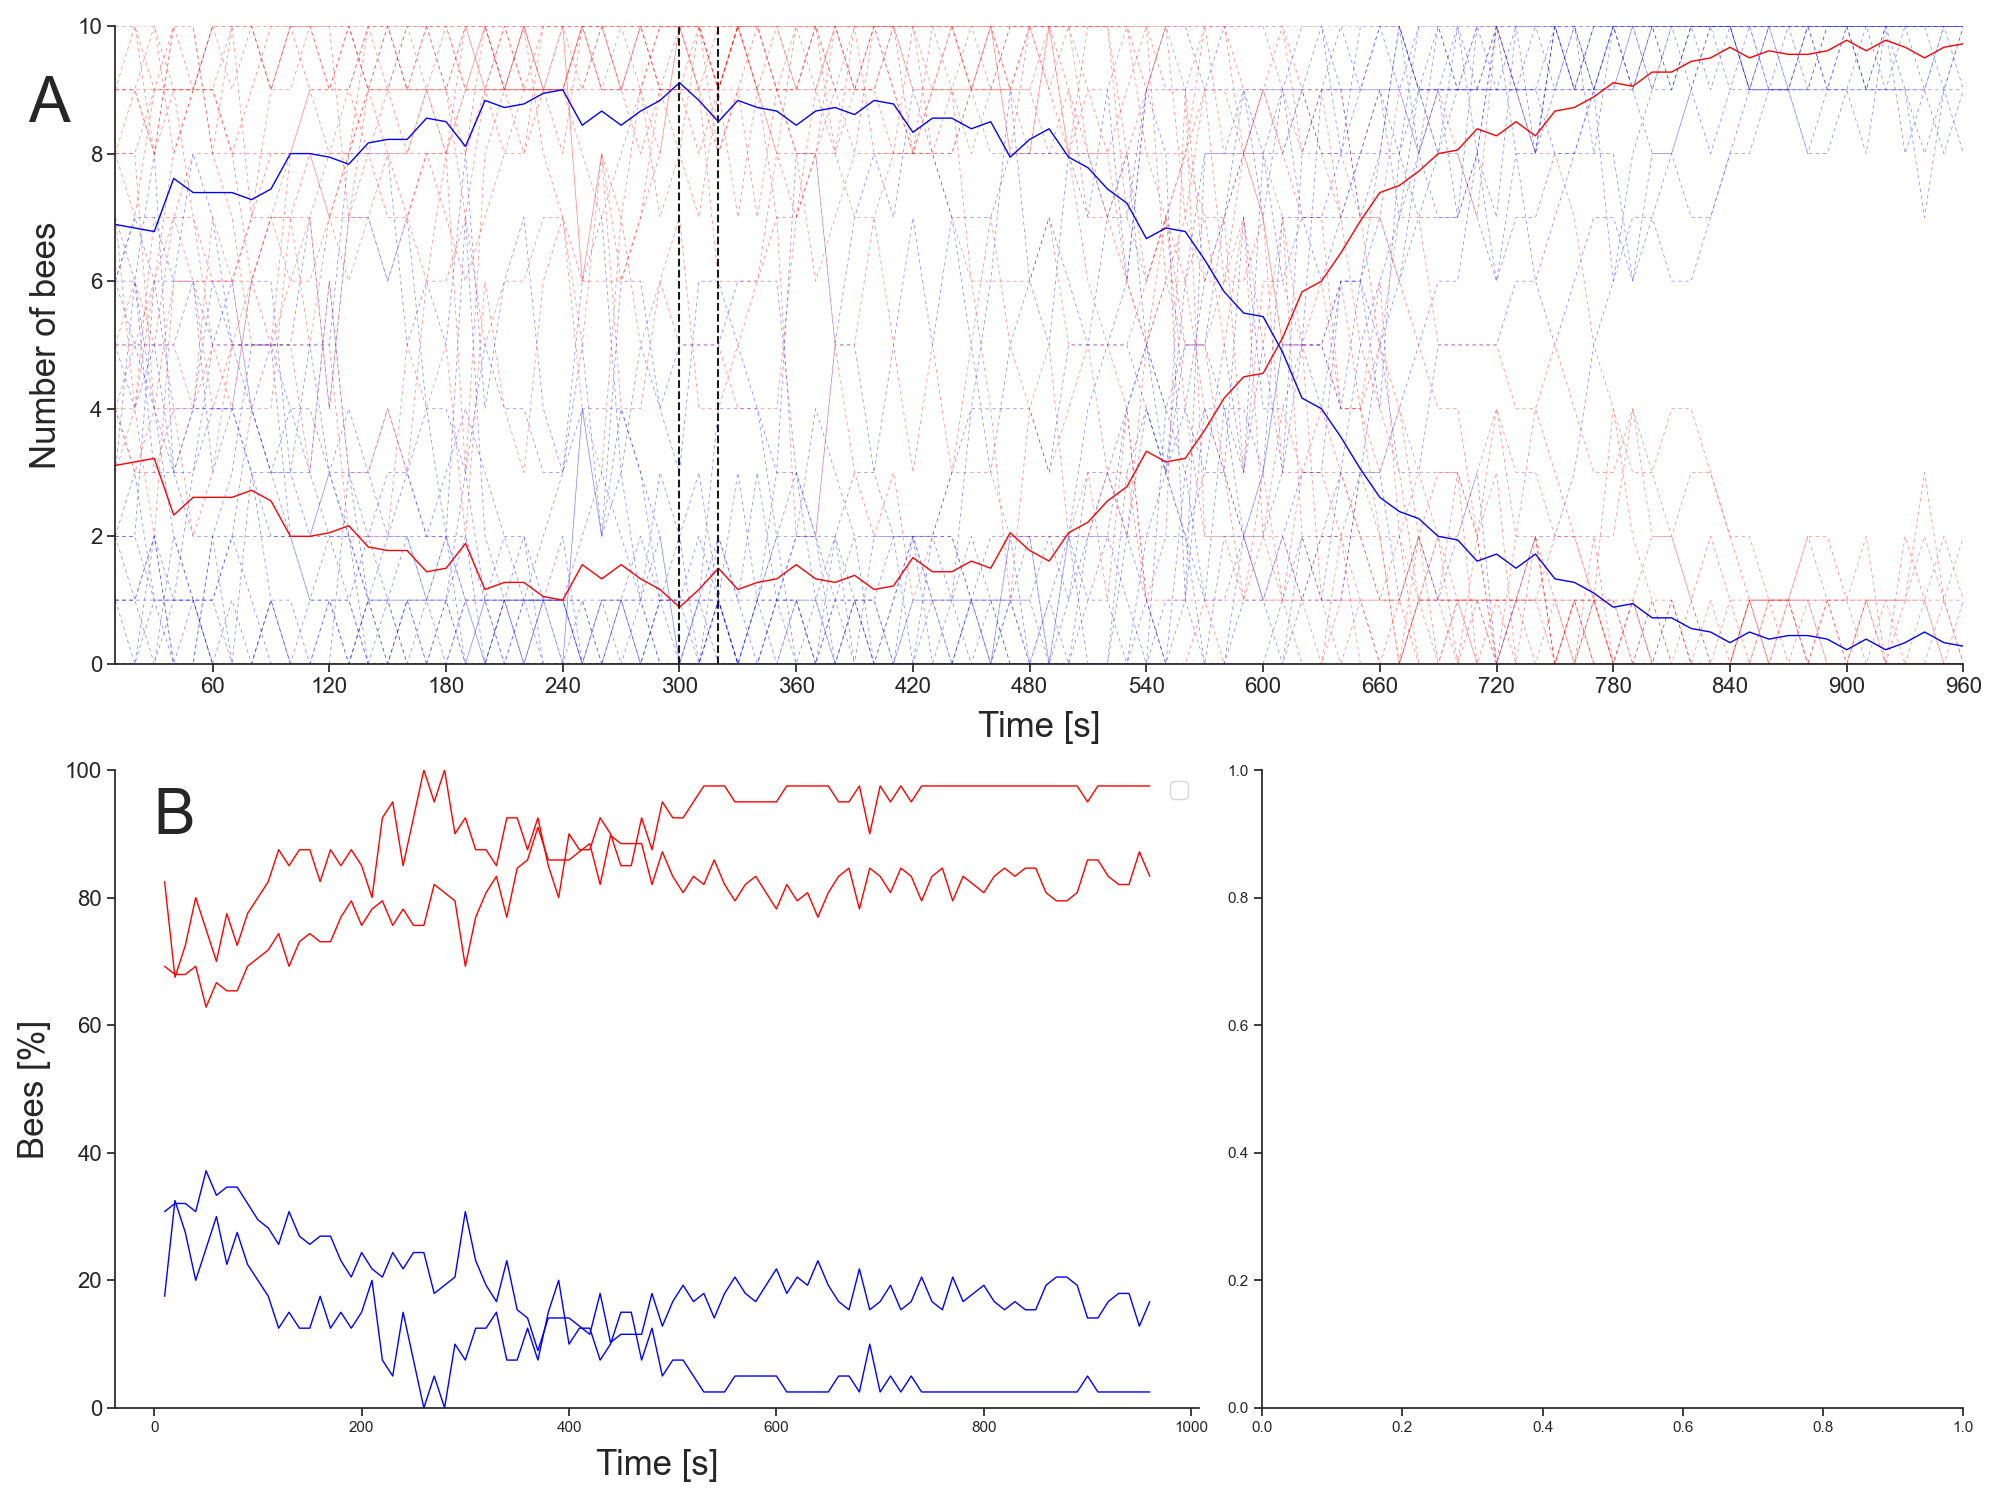
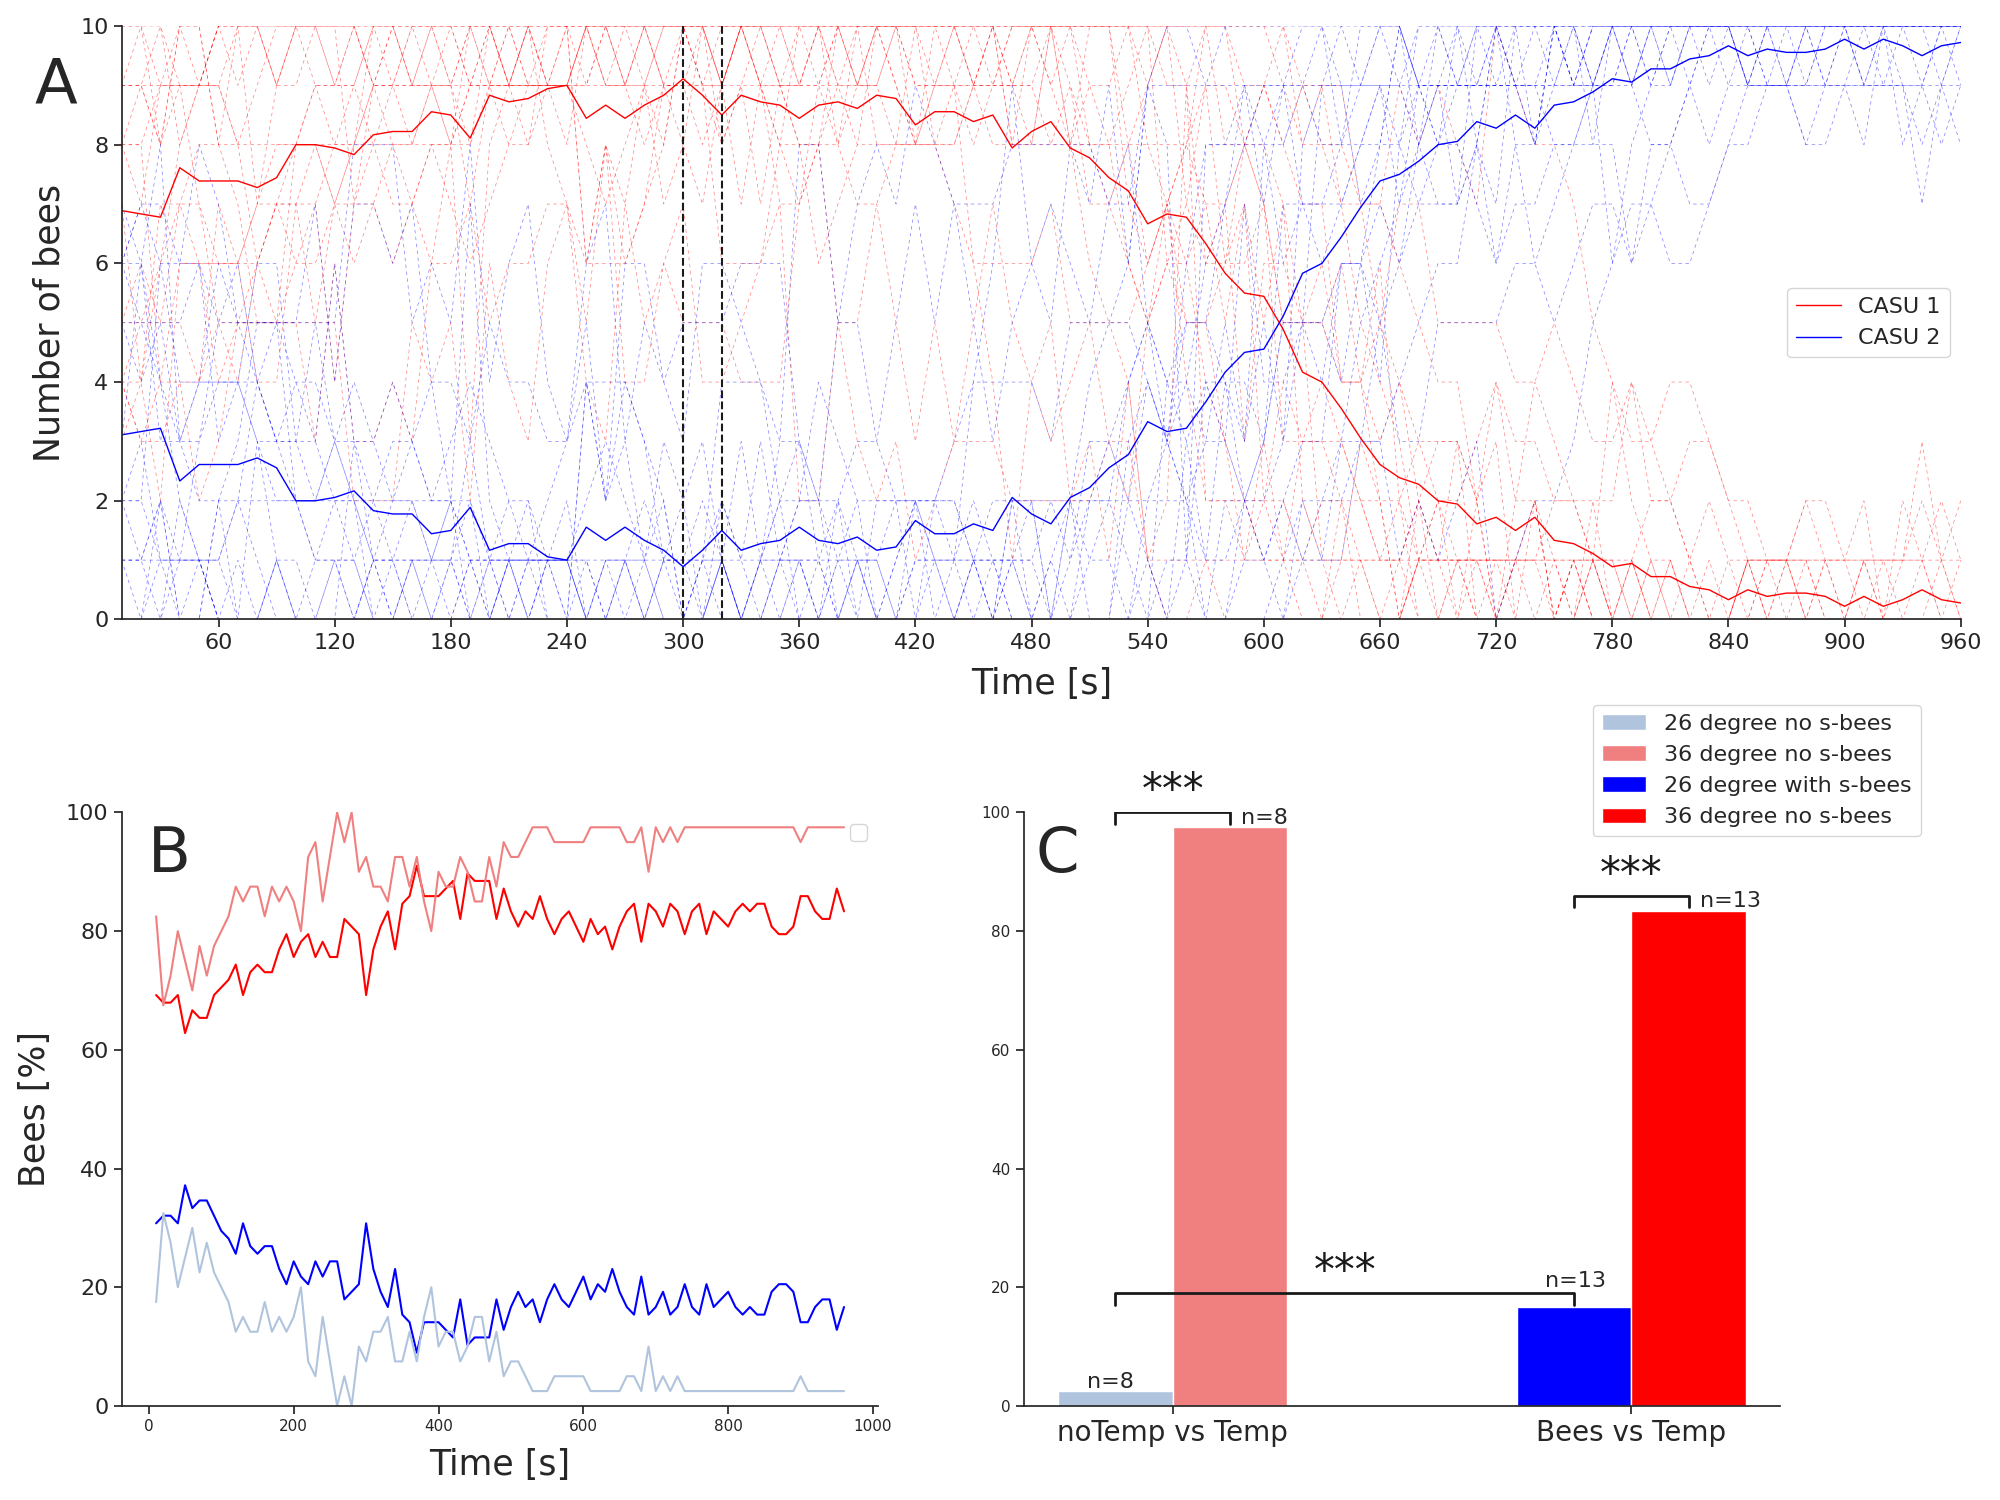
reformated graphs for CASU arena

diff --git a/Casu/plotting_Casu.py b/Casu/plotting_Casu.py
@@ -9,8 +9,9 @@ import numpy as np
 
 def plotting_plot(
     x_axis, y_casu_1, y_casu_2, mean_casu_1, mean_casu_2,
-    plotBees, plotTemp, plotNoTempCont, plotTempCont
-):
+    plotBees, plotTemp, plotNoTempCont, plotTempCont,
+    bar1, bar2, labels,
+    ):
     path = os.path.dirname(os.path.realpath(__file__))
     
     sns.set()
@@ -19,51 +20,82 @@ def plotting_plot(
     WIDTH = 0.25
 
     fig1 = plt.figure(figsize=(20, 15))
-    ax = plt.subplot(2, 10, (1, 10))
-    ax0 = plt.subplot(2, 10, (11, 16))
-    ax1 = plt.subplot(2, 10, (17, 20))
-    ax.set_xlim(10, 960)
-    ax.set_ylim(0, 10)
-    ax.xaxis.set_major_locator(MultipleLocator(60))
-    ax.set_ylabel('Number of bees', fontsize=25, labelpad=10)
-    ax.set_xlabel('Time [s]', fontsize=25, labelpad=10)
-    ax.tick_params(axis='both', which='major', labelsize=16)
-    ax0.tick_params(axis='y', which='major', labelsize=16)
-    ax.text(-35, 8.5, 'A', fontdict={'fontsize': 45})
-    ax0.text(-0.9, 90, 'B', fontdict={'fontsize': 45})
+    ax0 = plt.subplot(2, 11, (1, 11))
+    ax0.set_xlim(10, 960)
+    ax0.set_ylim(0, 10)
+    ax0.xaxis.set_major_locator(MultipleLocator(60))
+    ax0.set_ylabel('Number of bees', fontsize=25, labelpad=10)
+    ax0.set_xlabel('Time [s]', fontsize=25, labelpad=10)
+    ax0.tick_params(axis='both', which='major', labelsize=16)
+    ax0.text(-35, 8.7, 'A', fontdict={'fontsize': 45})
+    
     
     for i in y_casu_1:
-        ax.plot(x_axis, i, color='red', alpha=0.5, linewidth=0.5, linestyle=(0, (5, 5)))
+        ax0.plot(x_axis, i, color='red', alpha=0.5, linewidth=0.5, linestyle=(0, (5, 5)))
 
     for j in y_casu_2:
-        ax.plot(x_axis, j, color='blue', alpha=0.5, linewidth=0.5, linestyle=(0, (5, 5)))
+        ax0.plot(x_axis, j, color='blue', alpha=0.5, linewidth=0.5, linestyle=(0, (5, 5)))
 
-    ax.plot(x_axis, mean_casu_2, color='red', linewidth=1)
-    ax.plot(x_axis, mean_casu_1, color='blue', linewidth=1)
+    ax0.plot(x_axis, mean_casu_1, color='red', linewidth=1, label='CASU 1')
+    ax0.plot(x_axis, mean_casu_2, color='blue', linewidth=1, label='CASU 2')
 
-    ax.vlines(300, 0, 11, colors='k', linestyles='dashed')
-    ax.vlines(320, 0, 11, colors='k', linestyles='dashed')
+    ax0.vlines(300, 0, 11, colors='k', linestyles='dashed')
+    ax0.vlines(320, 0, 11, colors='k', linestyles='dashed')
+    ax0.legend(loc='center right', fontsize=16)
+
+    ax1 = plt.subplot(2, 11, (12, 16))
+    ax1.set_ylim(0, 100)
+
+    ax1.plot(x_axis, plotBees, color='blue', linewidth=1.5)
+    ax1.plot(x_axis, plotTemp, color='red', linewidth=1.5)
+    ax1.plot(x_axis, plotNoTempCont, color='lightsteelblue', linewidth=1.5)
+    ax1.plot(x_axis, plotTempCont, color='lightcoral', linewidth=1.5)
 
 
-    ax0.set_ylim(0, 100)
+    ax1.legend(loc='upper right', fontsize=16)
+    ax1.set_ylabel('Bees [%]', labelpad=10, fontsize=25)
+    ax1.set_xlabel('Time [s]', labelpad=10, fontsize=25)
+    ax1.tick_params(axis='y', which='major', labelsize=16)
+    ax1.text(-0.9, 90, 'B', fontdict={'fontsize': 45})
 
-    ax0.plot(x_axis, plotBees, color='blue', linewidth=1)
-    ax0.plot(x_axis, plotTemp, color='red', linewidth=1)
-    ax0.plot(x_axis, plotNoTempCont, color='blue', linewidth=1)
-    ax0.plot(x_axis, plotTempCont, color='red', linewidth=1)
+    x_bar = np.arange(len(labels))
+    WIDTH = 0.25
+    
+    ax2 = plt.subplot(2, 11, (17, 21))
+    ax2.set_ylim(0, 100)
 
+    ax2.bar(x_bar - WIDTH/2, [bar1[0], 0], WIDTH, color='lightsteelblue', label='26 degree no s-bees')
+    ax2.bar(x_bar + WIDTH/2, [bar2[0], 0], WIDTH, color='lightcoral', label='36 degree no s-bees')
+    ax2.bar(x_bar - WIDTH/2, [0, bar1[1]], WIDTH, color='blue', label='26 degree with s-bees')
+    ax2.bar(x_bar + WIDTH/2, [0, bar2[1]], WIDTH, color='red', label='36 degree no s-bees')
 
-    ax0.legend(loc='upper right', fontsize=16)
-    ax0.set_ylabel('Bees [%]', labelpad=10, fontsize=25)
-    ax0.set_xlabel('Time [s]', labelpad=10, fontsize=25)
+    ax2.set_xticks(ticks=x_bar, labels=labels, fontsize=20)
+
+    x1, x2, y, h, col = -0.125, 0.125, 98, 2, 'k'
+    ax2.plot([x1, x1, x2, x2], [y, y+h, y+h, y], lw=2, c=col)
+    ax2.text((x1+x2)*.5, y+h, "***", ha='center', va='bottom', color=col, fontsize=30)
+
+    x1, x2, y, h, col = 0.875, 1.125, 84, 2, 'k'
+    ax2.plot([x1, x1, x2, x2], [y, y+h, y+h, y], lw=2, c=col)
+    ax2.text((x1+x2)*.5, y+h, "***", ha='center', va='bottom', color=col, fontsize=30)
+    
+    x1, x2, y, h, col = -0.125, 0.875, 17, 2, 'k'
+    ax2.plot([x1, x1, x2, x2], [y, y+h, y+h, y], lw=2, c=col)
+    ax2.text((x1+x2)*.5, y+h, "***", ha='center', va='bottom', color=col, fontsize=30)
+
+    ax2.text(-0.3, 90, 'C', fontdict={'fontsize': 45})
+    ax2.text(-0.1875, 3, 'n=8', fontdict={'fontsize': 16})
+    ax2.text(0.15, 98, 'n=8', fontdict={'fontsize': 16})
+    ax2.text(0.8125, 20, 'n=13', fontdict={'fontsize': 16})
+    ax2.text(1.15, 84, 'n=13', fontdict={'fontsize': 16})
+
+    ax2.legend(loc='upper right', fontsize=16, bbox_to_anchor=(1.2, 1.2))
 
     # ax0.annotate('***', xy=(0, 85), xytext=(0, 0), textcoords='offset points', ha='center', va='bottom', fontsize=25)
     # ax0.annotate('***', xy=(1, 70), xytext=(0, 0), textcoords='offset points', ha='center', va='bottom', fontsize=25)
     # ax0.annotate('***', xy=(2, 60), xytext=(0, 0), textcoords='offset points', ha='center', va='bottom', fontsize=25)
 
-    # x1, x2, y, h, col = 0.88, 1.86, 43, 2, 'k'
-    # ax0.plot([x1, x1, x2, x2], [y, y+h, y+h, y], lw=2, c=col)
-    # ax0.text((x1+x2)*.5, y+h, "***", ha='center', va='bottom', color=col, fontsize=30)
+
 
     # x1, x2, y, h, col = 1.13, 2.126, 58, -2, 'k'
     # ax0.plot([x1, x1, x2, x2], [y, y+h, y+h, y], lw=2, c=col)

diff --git a/Casu/DataProcessingCasu.py b/Casu/DataProcessingCasu.py
@@ -1,6 +1,6 @@
 from plotting_Casu import plotting_plot
-from DataProcessingCasu2 import plotBees, plotTemp, plotNoTempCont, plotTempCont
 import os
+from Statistics import StatisticalTesting
 
 import pandas as pd
 import numpy as np
@@ -52,47 +52,7 @@ def CalcMean(df, list1, list2, BeeNumber):
     df1['mean'] = df1['mean'].apply(lambda x: x/BeeNumber * 100 if x != 0 else x)
     df2['mean'] = df2['mean'].apply(lambda x: x/BeeNumber * 100 if x != 0 else x)
   
-    return df1['mean'], df2['mean']
-
-def TestNormalDistribution(DataList):
-    statistic1, p_shapiro1 = stats.shapiro(DataList[0])
-    statistic2, p_ks1 = stats.kstest(DataList[0], 'norm', mode='exact')
-    statistic3, p_shapiro2 = stats.shapiro(DataList[1])
-    statistic4, p_ks2 = stats.kstest(DataList[1], 'norm', mode='exact')
-
-    if p_shapiro1 >= 0.05 and p_ks1 >= 0.05 and p_shapiro2 >= 0.05 and p_ks2 >= 0.05:
-        DataList.append(True)
-        return DataList
-
-    elif p_shapiro1 < 0.05 or p_ks1 < 0.05 or p_shapiro2 < 0.05 or p_ks2 < 0.05:
-        DataList.append(False)
-        return DataList
-
-    elif p_ks1 >= 0.05 and p_ks2 >= 0.05:
-        DataList.append(True)
-        return DataList
-
-def statisticalTestingDependent(DataList):
-    if DataList[2] == True:
-        statistic, p_val = stats.ttest_rel(DataList[0], DataList[1], alternative='two-sided')
-        return f'The students-T-test for dependent dataset returns a p value of {p_val} with a statistic of {statistic}'
-    elif DataList[2] == False:
-        statistic, p_val = stats.wilcoxon(DataList[0], DataList[1], zero_method='pratt', alternative='two-sided')
-        return f'The Wilcoxen-Pratt signed rank test returns a p value of {p_val} with a statistic of {statistic}'
-
-def statisticalTestingIndependent(DataList):
-    if DataList[2] == True:
-        statistic, p_lev = stats.levene(DataList[0], DataList[1])
-        if p_lev >= 0.05:
-            statistic, p_val = stats.ttest_ind(DataList[0], DataList[1], equal_var=True, alternative='two-sided')
-            return f'The students-T-test with equal variance returns a p value of {p_val} with a statistic of {statistic}'
-        elif p_lev < 0.05:
-            statistic, p_val = stats.ttest_ind(DataList[0], DataList[1], equal_var=False, alternative='two-sided')
-            return f'The students-T-test with no equal variance returns a p value of {p_val} with a statistic of {statistic}'
-    elif DataList[2] == False:
-        statistic, p_val = stats.mannwhitneyu(DataList[0], DataList[1], use_continuity=True, alternative='two-sided')
-        return f'The MannWhitney-U test returns a p value of {p_val} with a statistic of {statistic}'
-
+    return df1, df2
 
 def main():
     df = ReadData('https://docs.google.com/spreadsheets/d/11DkhIY7QQkUMNtjX1b16j7DmmQ6woKyCrGO_3p-Avig/edit#gid=0')
@@ -106,7 +66,6 @@ def main():
     ['danach_A1', 'danach_A2',	'danach_A3', 'danach_A4', 'danach_A5', 'danach_A6', 'danach_A7', 'danach_B1', 'danach_B2', 'danach_B3', 'danach_B4', 'danach_B5', 'danach_B6', 'danach_B7',	'danach_C1', 'danach_C2', 'danach_C3', 'danach_C4'],
     100
     )
-
     plotBees, plotTemp = CalcMean(
         df_Temp,
         ['Bienen_A1', 'Bienen_A2', 'Bienen_B1', 'Bienen_B2', 'Bienen_D1', 'Bienen_D2', 'Bienen_D3','Bienen_D4', 'Bienen_E1', 'Bienen_F1', 'Bienen_F2', 'Bienen_F3', 'Bienen_F4'],
@@ -120,13 +79,26 @@ def main():
         5
         )
 
-    print(plotNoTempCont)
+    print(plotBees.iloc[-1]['mean'])
 
     plotting_plot(
-        data_list[0], data_list[1], data_list[2], mean_casu1, mean_casu2,
-        plotBees, plotTemp, plotNoTempCont, plotTempCont
+        data_list[0], data_list[1], data_list[2], mean_casu1['mean'], mean_casu2['mean'],
+        plotBees['mean'], plotTemp['mean'], plotNoTempCont['mean'], plotTempCont['mean'],
+        [plotNoTempCont.iloc[-1]['mean'], plotBees.iloc[-1]['mean']],
+        [plotTempCont.iloc[-1]['mean'], plotTemp.iloc[-1]['mean']],
+        ['noTemp vs Temp', 'Bees vs Temp']
         )
+    
+    testData = [{
+        'Data1': plotBees.iloc[-1].tolist()[:-1],
+        'Data2': plotTemp.iloc[-1].tolist()[:-1],
+        'dependent': True,
+        'alternativ': 'two-sided'        
+        }
+        ]
 
+    result = StatisticalTesting(testData[0])
+    print(result)
 
 if __name__=='__main__':
     main()

diff --git a/Casu/Statistics.py b/Casu/Statistics.py
@@ -1,0 +1,49 @@
+import scipy.stats as stats
+
+def TestNormalDistribution(DataDict):
+    statistic1, p_shapiro1 = stats.shapiro(DataDict['Data1'])
+    statistic2, p_ks1 = stats.kstest(DataDict['Data1'], 'norm', mode='exact')
+    statistic3, p_shapiro2 = stats.shapiro(DataDict['Data2'])
+    statistic4, p_ks2 = stats.kstest(DataDict['Data2'], 'norm', mode='exact')
+
+    if p_shapiro1 >= 0.05 and p_ks1 >= 0.05 and p_shapiro2 >= 0.05 and p_ks2 >= 0.05:
+        DataDict['norm'] = True
+        return DataDict
+
+    elif p_shapiro1 < 0.05 or p_ks1 < 0.05 or p_shapiro2 < 0.05 or p_ks2 < 0.05:
+        DataDict['norm'] = False
+        return DataDict
+
+    elif p_ks1 >= 0.05 and p_ks2 >= 0.05:
+        DataDict['norm'] = True
+        return DataDict
+
+def statisticalTestingDependent(DataDict):
+    if DataDict['norm'] == True:
+        statistic, p_val = stats.ttest_rel(DataDict['Data1'], DataDict['Data2'], alternative=DataDict['alternativ'])
+        return f'The students-T-test for dependent dataset returns a p value of {p_val} with a statistic of {statistic}'
+    elif DataDict['norm'] == False:
+        statistic, p_val = stats.wilcoxon(DataDict['Data1'], DataDict['Data2'], zero_method='pratt', alternative=DataDict['alternativ'])
+        return f'The Wilcoxen-Pratt signed rank test returns a p value of {p_val} with a statistic of {statistic}'
+
+def statisticalTestingIndependent(DataDict):
+    if DataDict['norm'] == True:
+        statistic, p_lev = stats.levene(DataDict['Data1'], DataDict['Data2'])
+        if p_lev >= 0.05:
+            statistic, p_val = stats.ttest_ind(DataDict['Data1'], DataDict['Data2'], equal_var=True, alternative=DataDict['alternativ'])
+            return f'The students-T-test with equal variance returns a p value of {p_val} with a statistic of {statistic}'
+        elif p_lev < 0.05:
+            statistic, p_val = stats.ttest_ind(DataDict['Data1'], DataDict['Data2'], equal_var=False, alternative=DataDict['alternativ'])
+            return f'The students-T-test with no equal variance returns a p value of {p_val} with a statistic of {statistic}'
+    elif DataDict['norm'] == False:
+        statistic, p_val = stats.mannwhitneyu(DataDict['Data1'], DataDict['Data2'], use_continuity=True, alternative=DataDict['alternativ'])
+        return f'The MannWhitney-U test returns a p value of {p_val} with a statistic of {statistic}'
+
+def StatisticalTesting(DataDict):
+    DataDict = TestNormalDistribution(DataDict)
+    if DataDict['dependent'] == True:
+        result = statisticalTestingDependent(DataDict)
+        return result
+    elif DataDict['dependent'] == False:
+        result = statisticalTestingIndependent(DataDict)
+        return result

diff --git a/scratch.py b/scratch.py
@@ -1,0 +1,4 @@
+DataDict = {'Data1': 1, 'Data2': 2, 'alternativ': 'less'}
+print(DataDict)
+DataDict['norm'] = True
+print(DataDict)
